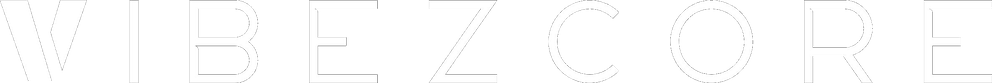
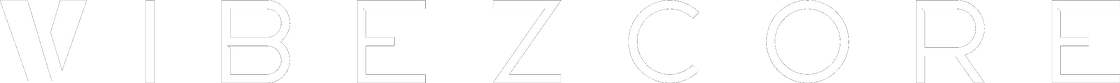
welcome: VIBEZCORE letters further apart

diff --git a/src/app/welcome.tsx b/src/app/welcome.tsx
@@ -432,9 +432,9 @@ const s = StyleSheet.create({
   topWordmark: {
     marginTop: 12,
     /* vibezcore_wordmark_wide.png: zelfde letters als het woordmerk, iets
-       ruimer gespatieerd (operator, 7 okt 2026). 992×83 → zelfde lettergrootte
-       als voorheen bij 120 breed. */
-    width: 149,
+       ruimer gespatieerd (operator, 7 okt 2026: "nog verder uiteen").
+       1120×83 → zelfde lettergrootte als het origineel bij 120 breed. */
+    width: 168,
     height: 12.5,
   },
   topTagline: {
